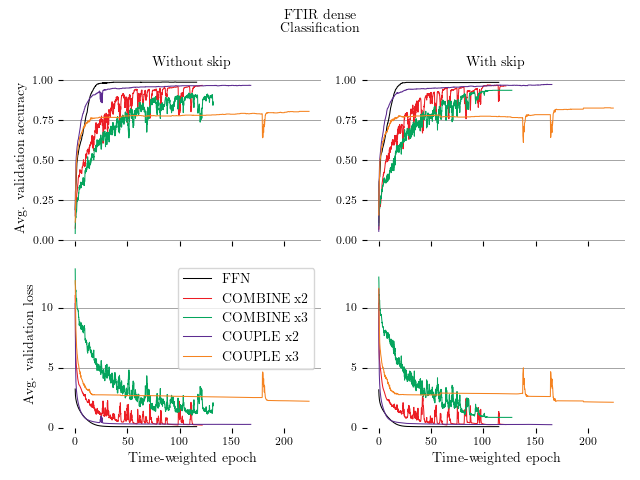
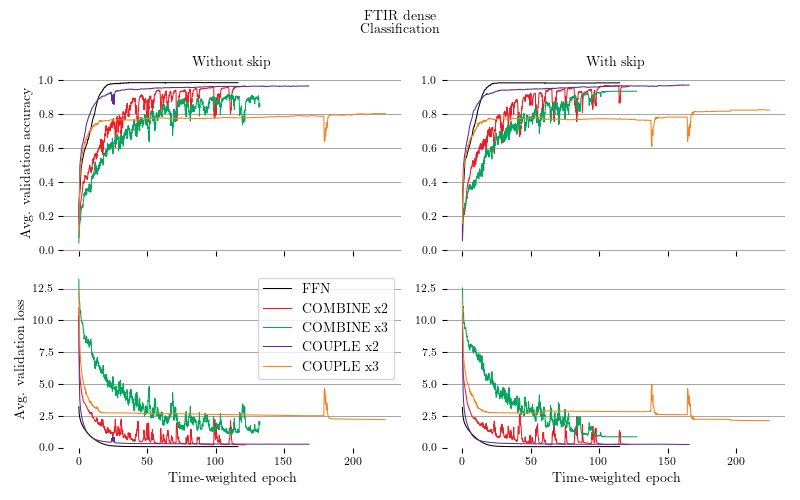
Modified plot sizes.

diff --git a/documentation/comparison.py b/documentation/comparison.py
@@ -67,9 +67,9 @@ for problem in os.listdir("./output/compare/"):
 
         if which == "REGRESSION":
             ax_acc = None
-            fig, ax_loss = plt.subplots(1, 2, sharey=True)
+            fig, ax_loss = plt.subplots(1, 2, sharey=True, figsize=(8, 4))
         else:
-            fig, ax = plt.subplots(2, 2, sharex=True)
+            fig, ax = plt.subplots(2, 2, sharex=True, figsize=(8, 5))
             ax_acc = [ax[0,0], ax[0,1]]
             ax_acc[1].sharey(ax_acc[0])
             ax_loss = [ax[1,0], ax[1,1]]

diff --git a/documentation/timeweighted.py b/documentation/timeweighted.py
@@ -36,9 +36,9 @@ for problem in os.listdir("./output/timing/"):
 
         if which == "REGRESSION":
             ax_acc = None
-            fig, ax_loss = plt.subplots(1, 2, sharey=True)
+            fig, ax_loss = plt.subplots(1, 2, sharey=True, figsize=(8, 4))
         else:
-            fig, ax = plt.subplots(2, 2, sharex=True)
+            fig, ax = plt.subplots(2, 2, sharex=True, figsize=(8, 5))
             ax_acc = [ax[0,0], ax[0,1]]
             ax_acc[1].sharey(ax_acc[0])
             ax_loss = [ax[1,0], ax[1,1]]
